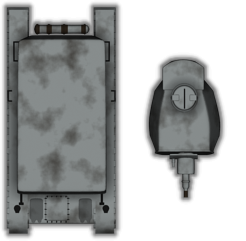
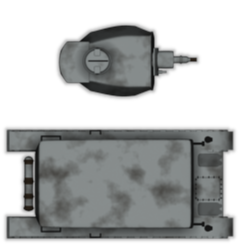
turret work

diff --git a/classes_folder/Tower.js b/classes_folder/Tower.js
@@ -25,7 +25,7 @@ class Tower {
       this.cd = 3000;
       this.shotPower = 20;
       this.pierce = 3;
-      image(sprite.tank, this.x, this.y, 120, 240, 0, 0, 120, 300);
+      //image(sprite.tank, this.x, this.y, 120, 240, 0, 0, 120, 300);
     }
     if (this.towerType === "ambush") {
       this.range = 250;
@@ -43,11 +43,16 @@ class Tower {
   }
 
   aimAtTarget(target) {
-    this.aimAngle = atan2(target.y + target.lead.y - this.y, target.x + target.lead.x - this.x);
+    this.aimAngle = atan2(target.y - this.y, target.x - this.x);
+    //this.aimAngle = atan2(target.y + target.lead.y - this.y, target.x + target.lead.x - this.x);
     push();
     translate(this.x, this.y);
     rotate(this.aimAngle);
-    line(0, 0, this.size*2, 0);
+    if (this.towerType === "sniper") {
+      image(sprite.tank, 0, 0, 120, 240, 136, 0, 120, 240);
+      line(0, 0, this.size*2, 0);
+    }
+
     pop();
     this.shootAtTarget();
   }
